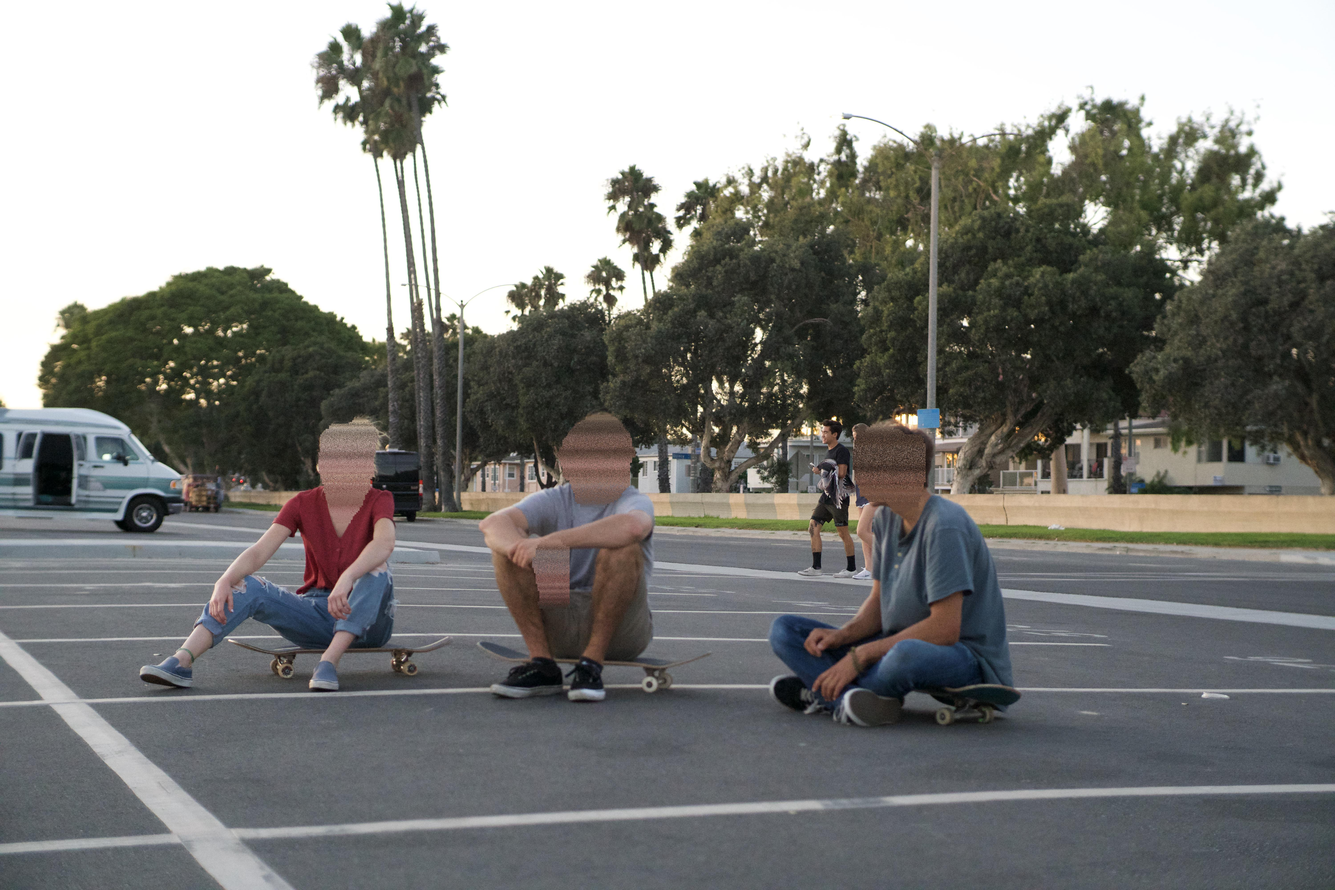
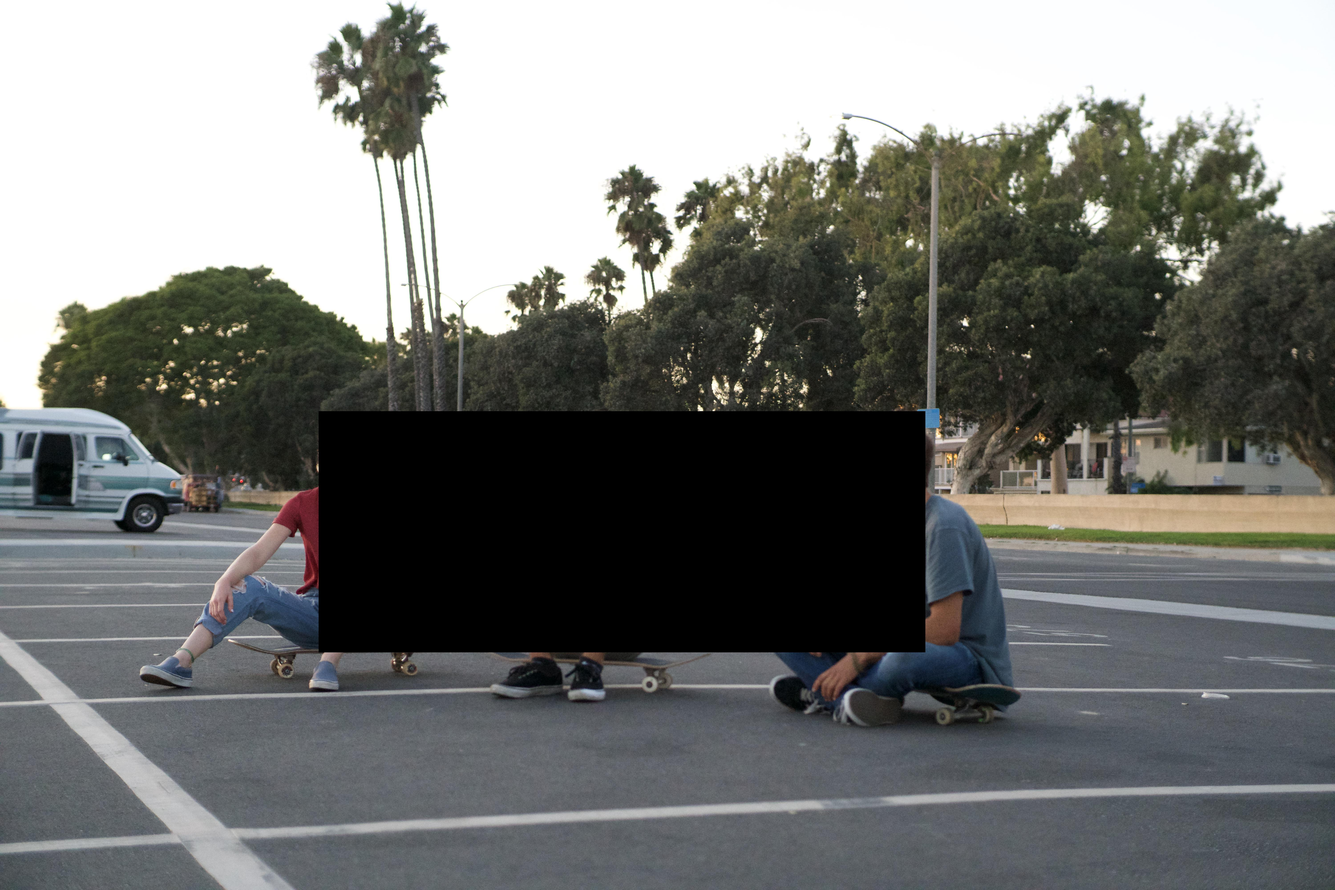
temp checking fixes

Changed region(s): [[0.2182, 0.4375, 0.7168, 0.75]]

diff --git a/algorithms.py b/algorithms.py
@@ -108,21 +108,22 @@ def pixel_sort2(img, img_mask):
 def black_bar(img, img_mask):
 
     BLACK_COLOR = (0,0,0)
-
+    img_mask = (img_mask[:,:,:1] > 0.9).astype(np.uint8)
     # RUN DFS
-    count = 1
+    count = 2
     for row in range(len(img_mask)):
         for col in range(len(img_mask[row])):
             val = img_mask[row][col][0]
-            if val == 255:
+            if val == 1:
                 black_bar_dfs(col, row, img_mask, count)
                 count += 1
+    print("count", count)
 
-    print("should be 1", img_mask[1980][1520])
-    print("should be 3", img_mask[2040][4030])
+    print("should be 1", img_mask[1980][1520][0])
+    print("should be 3", img_mask[2040][4030][0])
     print(img.size[0], img.size[1])
 
-    count = 1
+    count = 2
     segment = [img.size[0], img.size[1], 0 ,0]
     for row in range(len(img_mask)):
         for col in range(len(img_mask[row])):
@@ -140,22 +141,32 @@ def black_bar(img, img_mask):
                 if row > segment[3]:
                     segment[3] = row
     img.paste( BLACK_COLOR, [segment[0],segment[1],segment[2],segment[3]])
+    img = np.array(img)
+    # colors = [[24, 67, 88], [255, 0, 0], [0, 255, 0], [0, 0, 255]]
+    # for row in range(len(img_mask)):
+    #     for col in range(len(img_mask[row])):
+    #         if img_mask[row][col][0] > 0:
+    #             # print(int(int(img_mask[row][col][0])%4))
+    #             if int(img_mask[row][col][0]) < 4:
+    #                 img[row][col] = colors[int(img_mask[row][col][0])]
+    #             else:
+    #                 img[row][col] = colors[int(int(img_mask[row][col][0])%4)]
 
     return img
 
 def black_bar_dfs(col, row, img_mask, count):
     img_mask[row][col][0] = count
     #left
-    if col > 0 and img_mask[row][col-1][0] == 255:
+    if col > 0 and img_mask[row][col-1][0] == 1:
         black_bar_dfs(col-1, row, img_mask, count)
     #top
-    if row > 0 and img_mask[row-1][col][0] == 255:
+    if row > 0 and img_mask[row-1][col][0] == 1:
         black_bar_dfs(col, row-1, img_mask, count)
     #right
-    if col < len(img_mask[0])-1 and img_mask[row][col+1][0] == 255:
+    if col < len(img_mask[0])-1 and img_mask[row][col+1][0] == 1:
         black_bar_dfs(col+1, row, img_mask, count)
     #bottom
-    if row > len(img_mask)-1 and img_mask[row+1][col][0] == 255:
+    if row > len(img_mask)-1 and img_mask[row+1][col][0] == 1:
         black_bar_dfs(col, row+1, img_mask, count)
 
 def adjust_exif2(tags_chosen,exif):

diff --git a/client_test.py b/client_test.py
@@ -9,7 +9,7 @@ def stringToRGB(base64_string):
     return io.BytesIO(imgdata)
 
 os.environ['NO_PROXY'] = '127.0.0.1'
-url = 'http://127.0.0.1:5001/api/censor?options=[pixel_sort]&metadata=[Make, Model]'
+url = 'http://127.0.0.1:5001/api/censor?options=[black_bar]&metadata=[Model]'
 
 img = open(sys.argv[1], 'rb')
 img_mask = open(sys.argv[2], 'rb')
